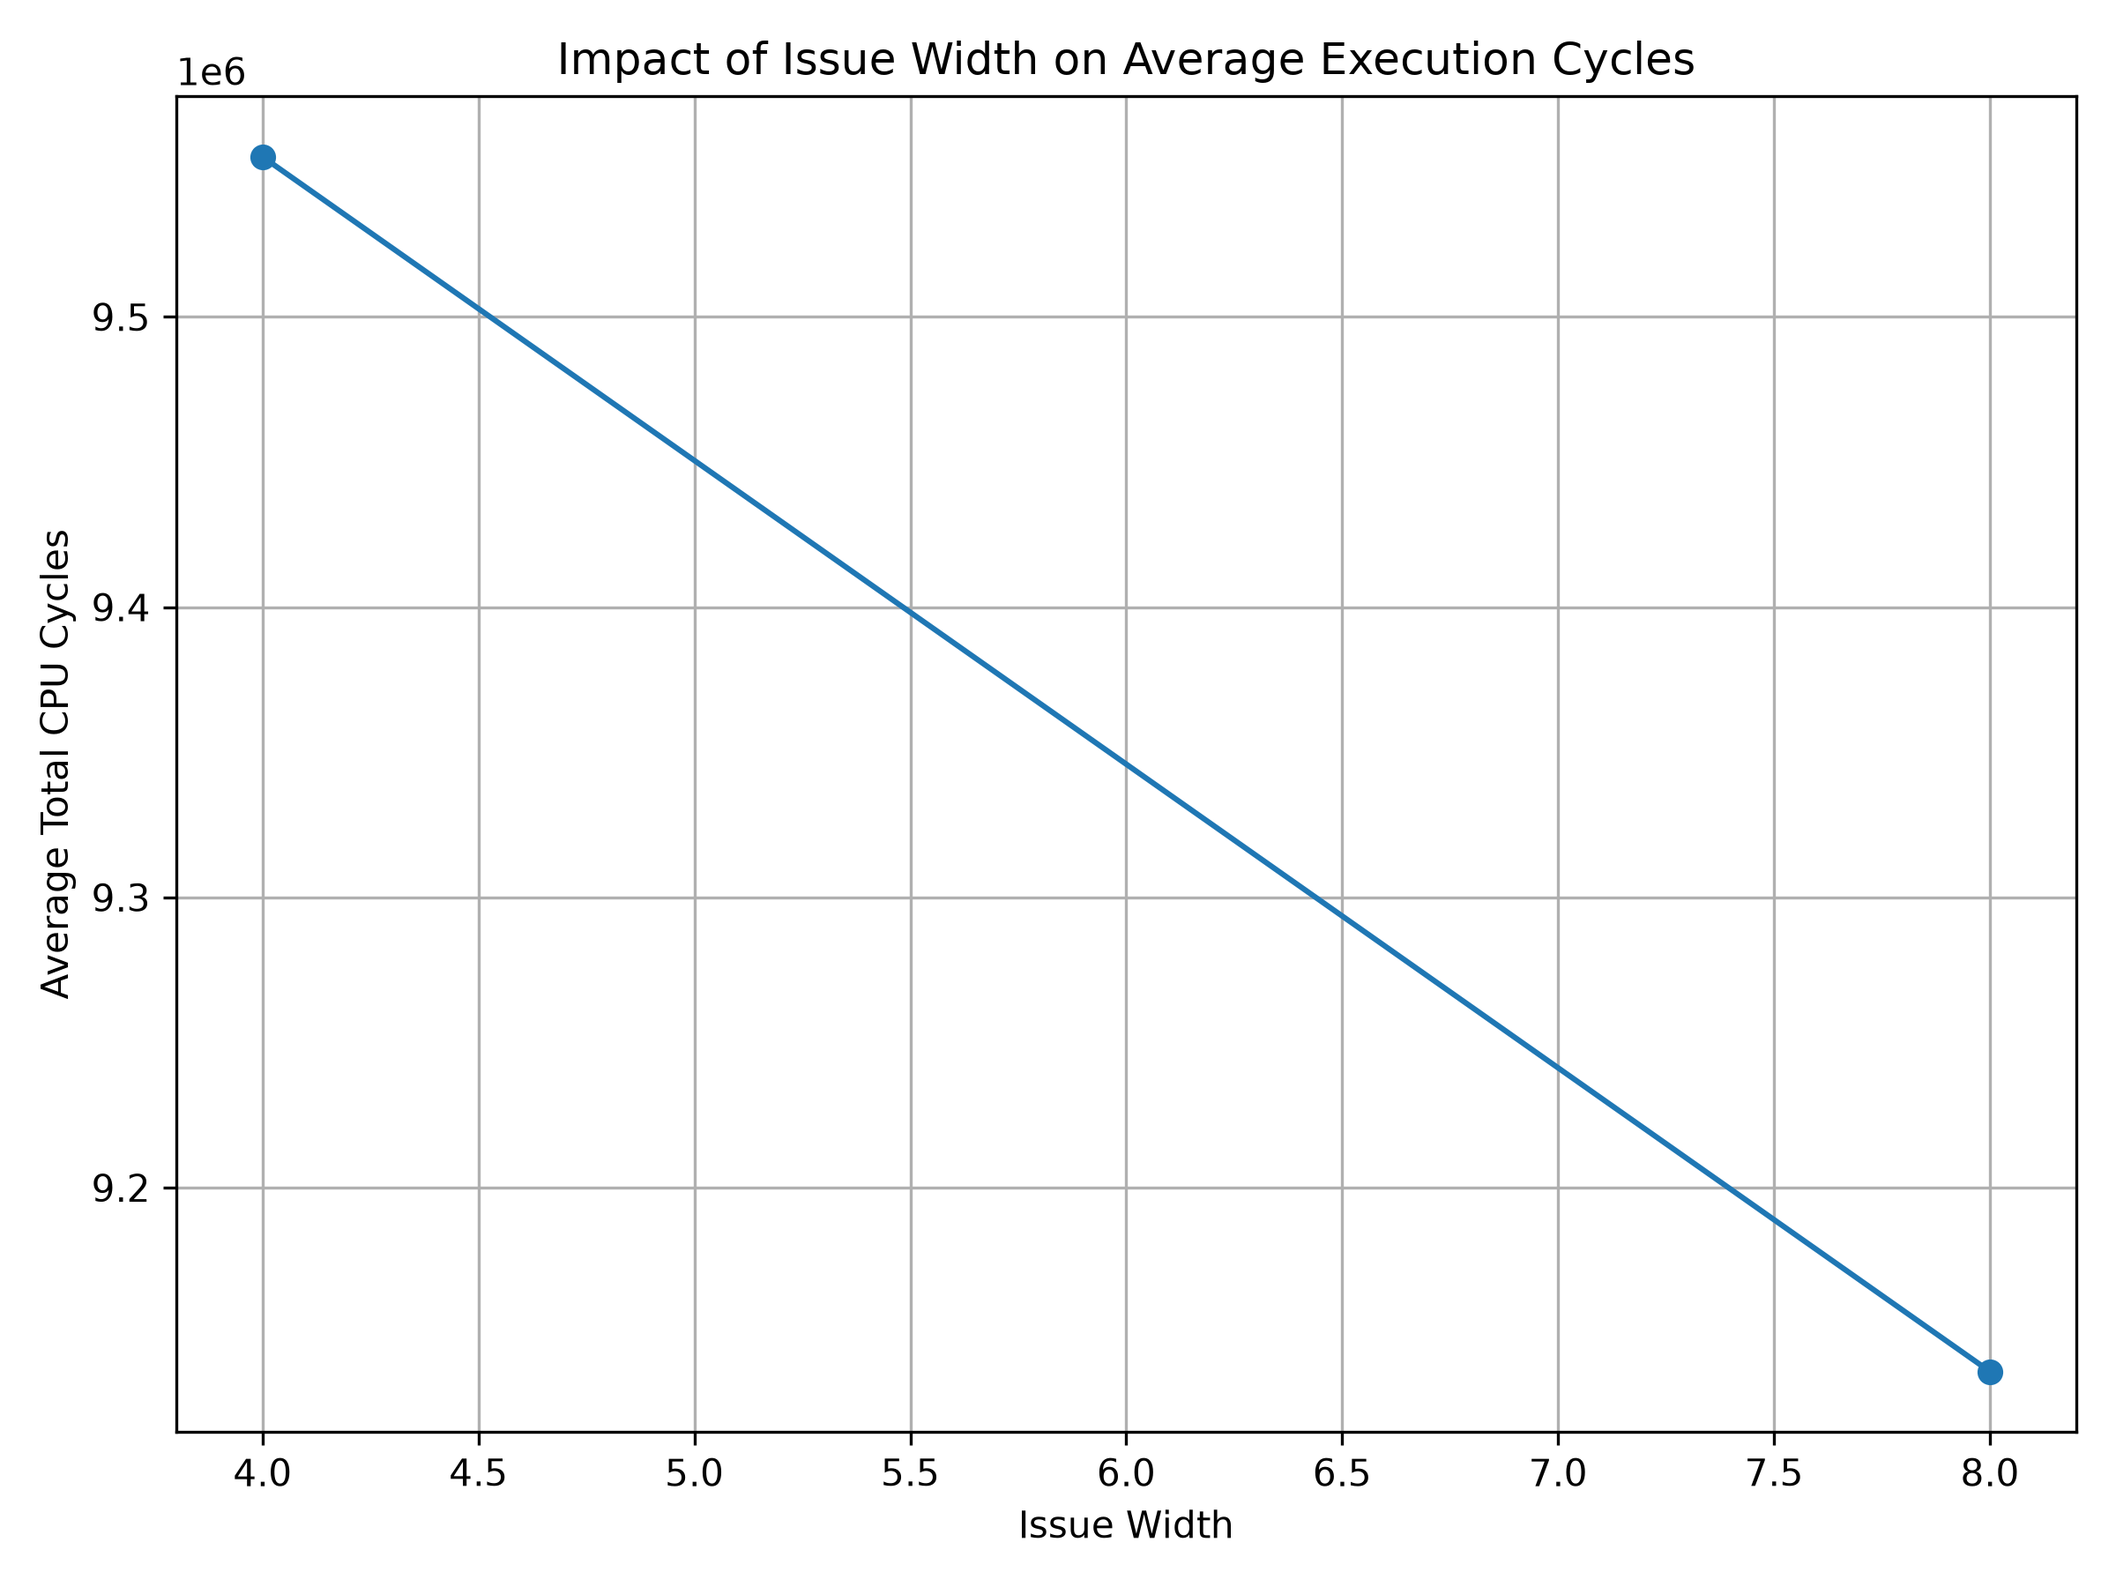
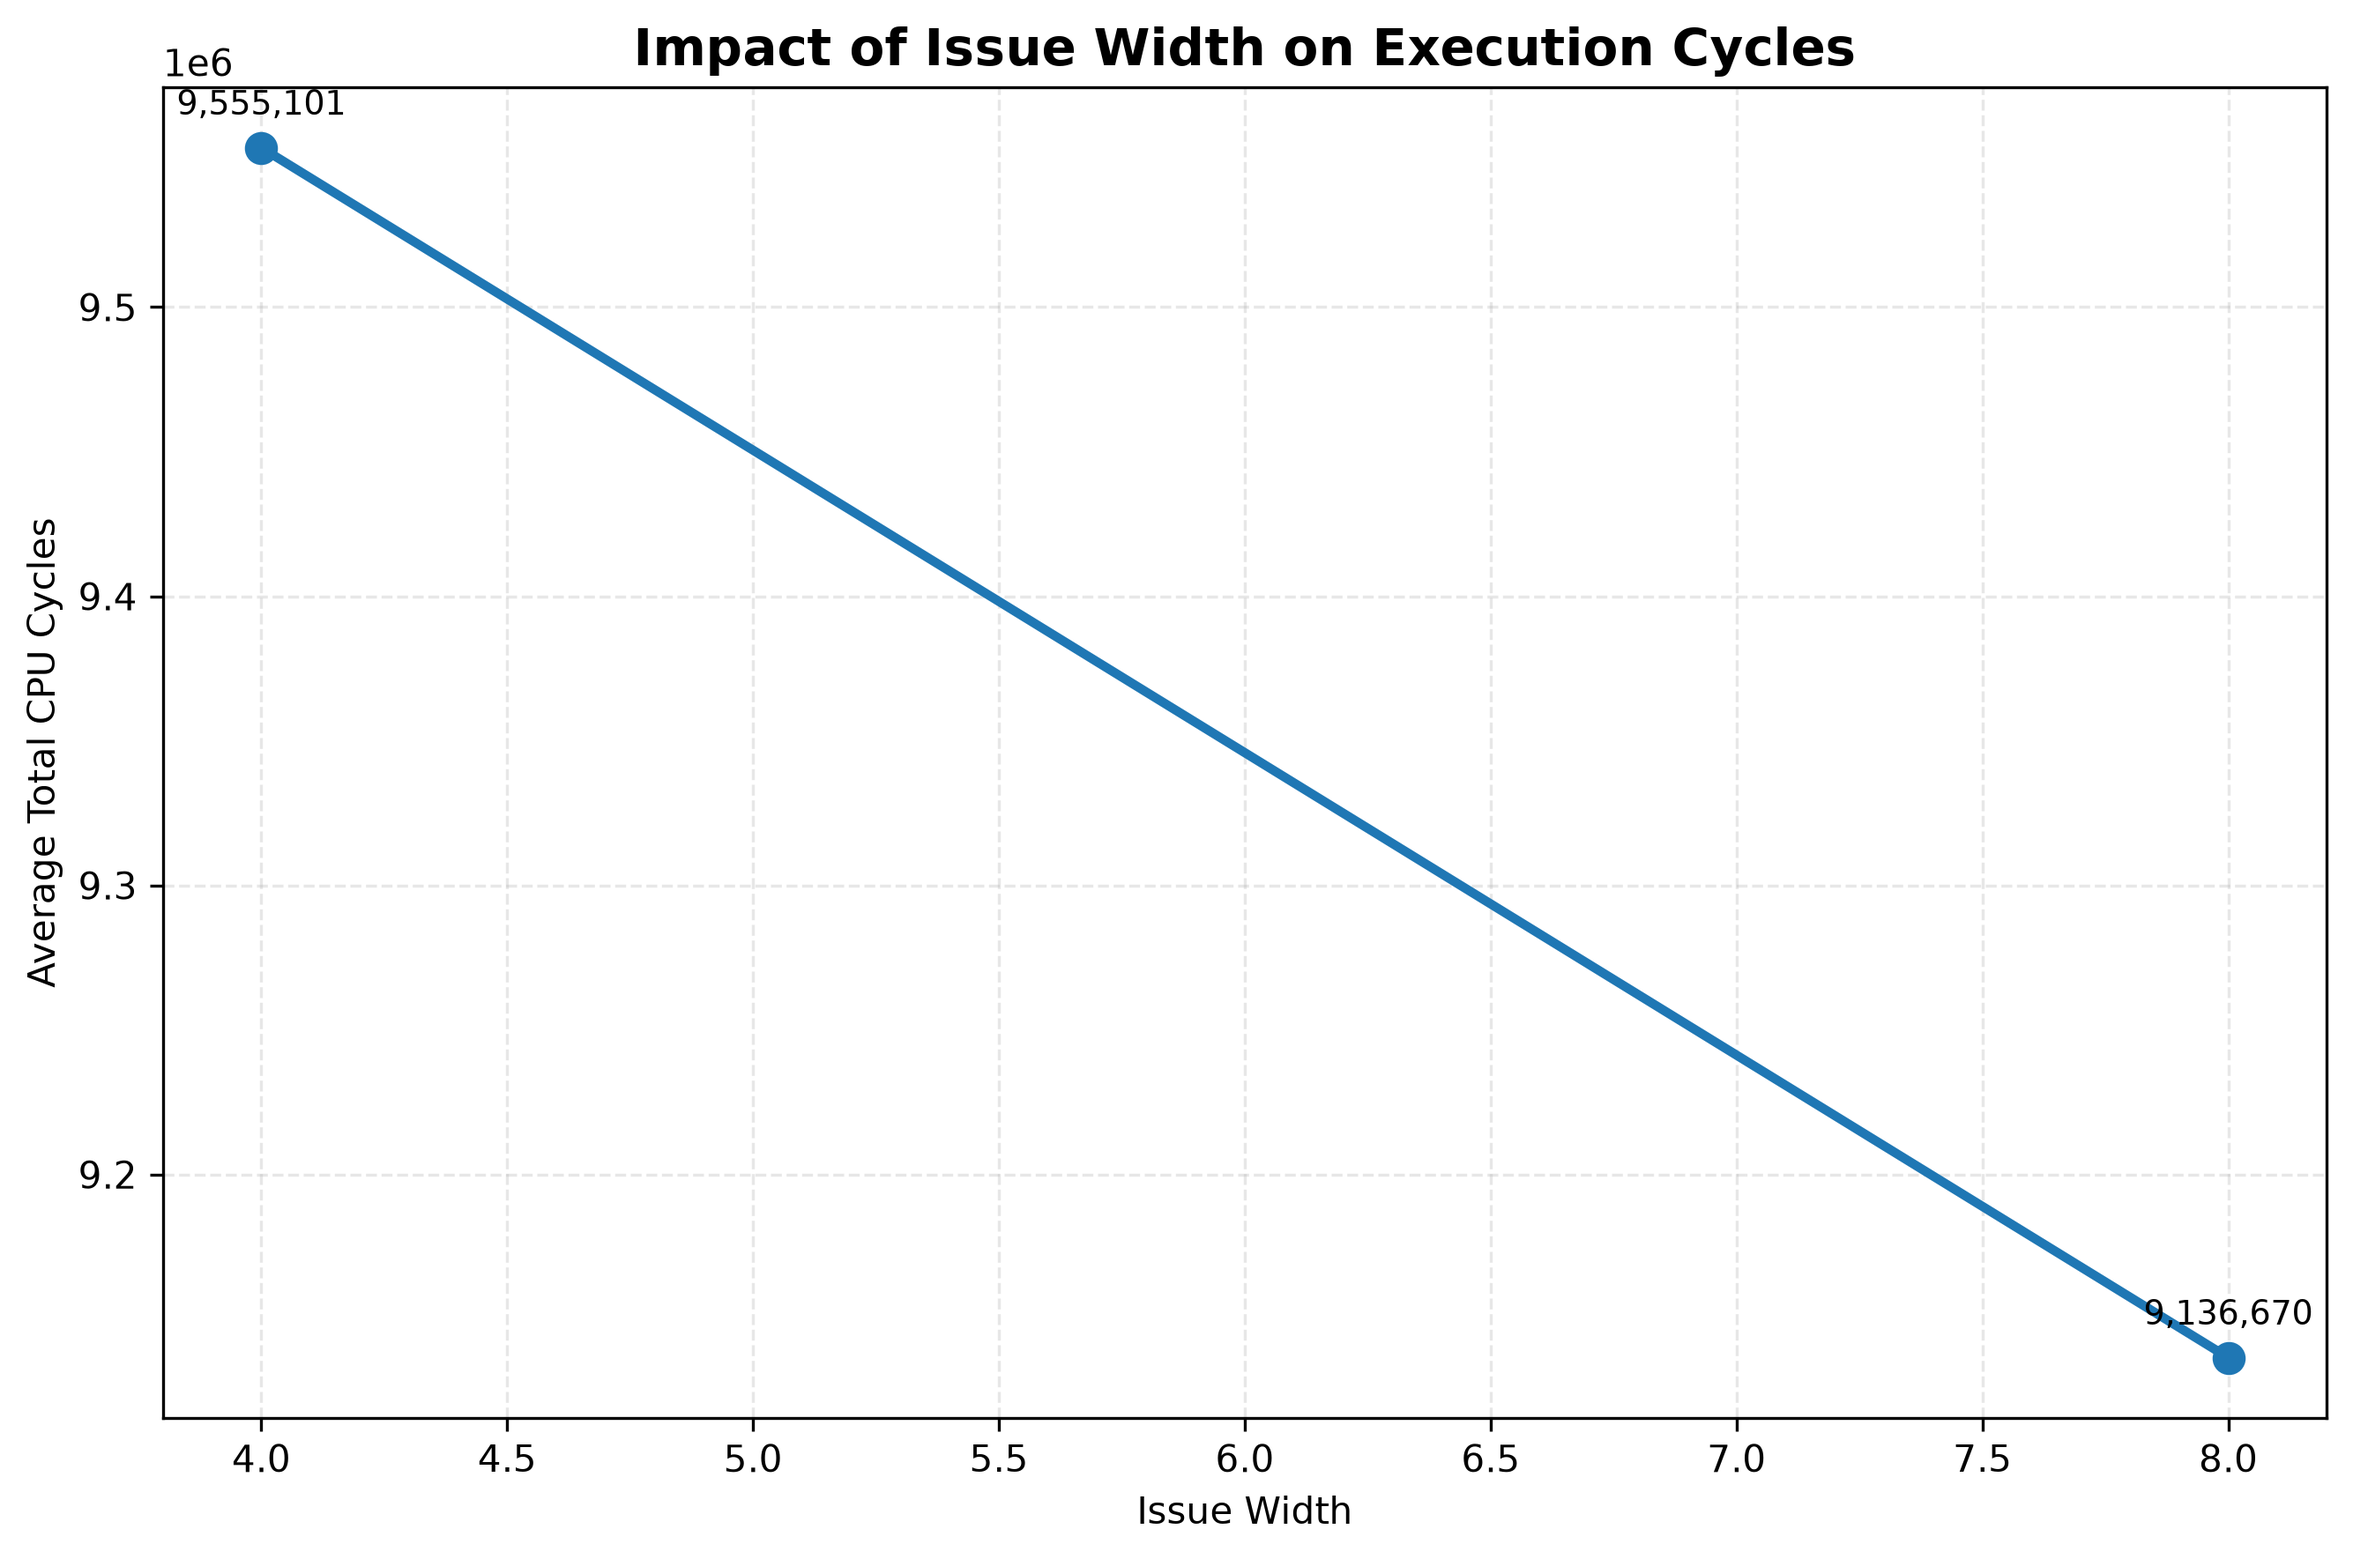
Improve visualization quality of gem5 analysis graphs

diff --git a/automation/analyze_results.py b/automation/analyze_results.py
@@ -279,208 +279,135 @@ def generate_graphs(experiments):
     ]
 
     # --------------------------------------------------------
+
+    # --------------------------------------------------------
+
+    # --------------------------------------------------------
+
+    # --------------------------------------------------------
     # GRAPH 1: EXECUTION CYCLE COMPARISON
     # --------------------------------------------------------
 
-    plt.figure(figsize=(17, 8))
+    plt.figure(figsize=(13, 10))
 
-    plt.bar(range(len(names)), cycles)
+    plt.barh(names[::-1], cycles[::-1])
 
-    plt.xticks(
-        range(len(names)),
-        names,
-        rotation=75,
-        ha="right",
-        fontsize=8
-    )
+    plt.xlabel("Total CPU Cycles")
+    plt.ylabel("Configuration")
+    plt.title("Execution Cycle Comparison Across 24 Configurations",
+              fontsize=15, fontweight="bold")
 
-    plt.ylabel("Total CPU Cycles")
-    plt.xlabel("Configuration")
-
-    plt.title(
-        "Execution Cycle Comparison Across 24 Configurations"
-    )
-
+    plt.grid(axis="x", linestyle="--", alpha=0.3)
     plt.tight_layout()
-
-    plt.savefig(
-        os.path.join(
-            GRAPH_DIR,
-            "execution_time_comparison.png"
-        ),
-        dpi=300
-    )
-
+    plt.savefig(os.path.join(GRAPH_DIR, "execution_time_comparison.png"),
+                dpi=300, bbox_inches="tight")
     plt.close()
 
     # --------------------------------------------------------
     # GRAPH 2: IPC COMPARISON
     # --------------------------------------------------------
 
-    plt.figure(figsize=(17, 8))
+    ipc_sorted = sorted(zip(ipc_values, names), reverse=True)
 
-    plt.bar(range(len(names)), ipc_values)
-
-    plt.xticks(
-        range(len(names)),
-        names,
-        rotation=75,
-        ha="right",
-        fontsize=8
+    plt.figure(figsize=(13, 10))
+    plt.barh(
+        [item[1] for item in ipc_sorted[::-1]],
+        [item[0] for item in ipc_sorted[::-1]]
     )
 
-    plt.ylabel("Instructions Per Cycle (IPC)")
-    plt.xlabel("Configuration")
+    plt.xlabel("Instructions Per Cycle (IPC)")
+    plt.ylabel("Configuration")
+    plt.title("IPC Comparison Across 24 Configurations",
+              fontsize=15, fontweight="bold")
 
-    plt.title(
-        "IPC Comparison Across 24 Configurations"
-    )
-
+    plt.grid(axis="x", linestyle="--", alpha=0.3)
     plt.tight_layout()
-
-    plt.savefig(
-        os.path.join(
-            GRAPH_DIR,
-            "ipc_comparison.png"
-        ),
-        dpi=300
-    )
-
+    plt.savefig(os.path.join(GRAPH_DIR, "ipc_comparison.png"),
+                dpi=300, bbox_inches="tight")
     plt.close()
 
     # --------------------------------------------------------
     # GRAPH 3: ISSUE WIDTH IMPACT
     # --------------------------------------------------------
 
-    issue_averages = calculate_group_averages(
-        experiments,
-        "Issue_Width"
-    )
-
+    issue_averages = calculate_group_averages(experiments, "Issue_Width")
     issue_sizes = sorted(issue_averages.keys())
+    issue_cycles = [issue_averages[size] for size in issue_sizes]
 
-    issue_cycles = [
-        issue_averages[size]
-        for size in issue_sizes
-    ]
+    plt.figure(figsize=(9, 6))
+    plt.plot(issue_sizes, issue_cycles, marker="o", linewidth=2.5,
+             markersize=8)
 
-    plt.figure(figsize=(8, 6))
-
-    plt.plot(
-        issue_sizes,
-        issue_cycles,
-        marker="o"
-    )
+    for x, y in zip(issue_sizes, issue_cycles):
+        plt.annotate(f"{y:,.0f}", (x, y), xytext=(0, 9),
+                     textcoords="offset points", ha="center", fontsize=9)
 
     plt.xlabel("Issue Width")
     plt.ylabel("Average Total CPU Cycles")
-
-    plt.title(
-        "Impact of Issue Width on Average Execution Cycles"
-    )
-
-    plt.grid(True)
+    plt.title("Impact of Issue Width on Execution Cycles",
+              fontsize=14, fontweight="bold")
+    plt.grid(True, linestyle="--", alpha=0.3)
     plt.tight_layout()
-
-    plt.savefig(
-        os.path.join(
-            GRAPH_DIR,
-            "issue_width_impact.png"
-        ),
-        dpi=300
-    )
-
+    plt.savefig(os.path.join(GRAPH_DIR, "issue_width_impact.png"),
+                dpi=300, bbox_inches="tight")
     plt.close()
 
     # --------------------------------------------------------
     # GRAPH 4: ROB SIZE IMPACT
     # --------------------------------------------------------
 
-    rob_averages = calculate_group_averages(
-        experiments,
-        "ROB_Entries"
-    )
-
+    rob_averages = calculate_group_averages(experiments, "ROB_Entries")
     rob_sizes = sorted(rob_averages.keys())
+    rob_cycles = [rob_averages[size] for size in rob_sizes]
 
-    rob_cycles = [
-        rob_averages[size]
-        for size in rob_sizes
-    ]
+    plt.figure(figsize=(9, 6))
+    plt.plot(rob_sizes, rob_cycles, marker="o", linewidth=2.5,
+             markersize=8)
 
-    plt.figure(figsize=(8, 6))
-
-    plt.plot(
-        rob_sizes,
-        rob_cycles,
-        marker="o"
-    )
+    for x, y in zip(rob_sizes, rob_cycles):
+        plt.annotate(f"{y:,.0f}", (x, y), xytext=(0, 9),
+                     textcoords="offset points", ha="center", fontsize=9)
 
     plt.xlabel("Reorder Buffer Size (Entries)")
     plt.ylabel("Average Total CPU Cycles")
-
-    plt.title(
-        "Impact of ROB Size on Average Execution Cycles"
-    )
-
-    plt.grid(True)
+    plt.title("Impact of ROB Size on Execution Cycles",
+              fontsize=14, fontweight="bold")
+    plt.grid(True, linestyle="--", alpha=0.3)
     plt.tight_layout()
-
-    plt.savefig(
-        os.path.join(
-            GRAPH_DIR,
-            "rob_impact.png"
-        ),
-        dpi=300
-    )
-
+    plt.savefig(os.path.join(GRAPH_DIR, "rob_impact.png"),
+                dpi=300, bbox_inches="tight")
     plt.close()
 
     # --------------------------------------------------------
     # GRAPH 5: L2 CACHE SIZE IMPACT
     # --------------------------------------------------------
 
-    l2_averages = calculate_group_averages(
-        experiments,
-        "L2_KB"
-    )
-
+    l2_averages = calculate_group_averages(experiments, "L2_KB")
     l2_sizes = sorted(l2_averages.keys())
+    l2_cycles = [l2_averages[size] for size in l2_sizes]
 
-    l2_cycles = [
-        l2_averages[size]
-        for size in l2_sizes
-    ]
+    plt.figure(figsize=(9, 6))
+    plt.plot(l2_sizes, l2_cycles, marker="o", linewidth=2.5,
+             markersize=8)
 
-    plt.figure(figsize=(8, 6))
-
-    plt.plot(
-        l2_sizes,
-        l2_cycles,
-        marker="o"
-    )
+    for x, y in zip(l2_sizes, l2_cycles):
+        plt.annotate(f"{y:,.0f}", (x, y), xytext=(0, 9),
+                     textcoords="offset points", ha="center", fontsize=9)
 
     plt.xlabel("L2 Cache Size (KB)")
     plt.ylabel("Average Total CPU Cycles")
-
-    plt.title(
-        "Impact of L2 Cache Size on Average Execution Cycles"
-    )
-
-    plt.grid(True)
+    plt.title("Impact of L2 Cache Size on Execution Cycles",
+              fontsize=14, fontweight="bold")
+    plt.grid(True, linestyle="--", alpha=0.3)
     plt.tight_layout()
-
-    plt.savefig(
-        os.path.join(
-            GRAPH_DIR,
-            "l2_cache_impact.png"
-        ),
-        dpi=300
-    )
-
+    plt.savefig(os.path.join(GRAPH_DIR, "l2_cache_impact.png"),
+                dpi=300, bbox_inches="tight")
     plt.close()
 
     print("Five graphs generated successfully.")
+
+
+
 
 
 # ============================================================

diff --git a/automation/analyze_interactions.py b/automation/analyze_interactions.py
@@ -186,7 +186,7 @@ def generate_graph(
         row["Series_Value"] for row in results
     })
 
-    plt.figure(figsize=(9, 6))
+    plt.figure(figsize=(11, 7))
 
     for series_value in series_values:
 
@@ -213,21 +213,33 @@ def generate_graph(
             x_values,
             y_values,
             marker="o",
-            linewidth=2,
+            markersize=9,
+            linewidth=2.5,
             label=f"{series_parameter} = {series_value}"
         )
 
-    plt.xlabel(x_parameter.replace("_", " "))
-    plt.ylabel("Average Total CPU Cycles")
-    plt.title(title)
+    ax = plt.gca()
+    ax.yaxis.set_major_formatter(
+        plt.FuncFormatter(lambda y, _: f"{y / 1_000_000:.1f}M")
+    )
 
-    plt.legend()
-    plt.grid(True, alpha=0.3)
+    plt.xlabel(x_parameter.replace("_", " "), fontsize=11)
+    plt.ylabel("Average Total CPU Cycles (Millions)", fontsize=11)
+    plt.title(title, fontsize=15, fontweight="bold", pad=15)
+
+    plt.legend(
+        title=series_parameter.replace("_", " "),
+        loc="best",
+        frameon=True
+    )
+
+    plt.grid(True, linestyle="--", alpha=0.3)
     plt.tight_layout()
 
     plt.savefig(
         os.path.join(GRAPH_DIR, filename),
-        dpi=300
+        dpi=300,
+        bbox_inches="tight"
     )
 
     plt.close()

diff --git a/automation/statistical_analysis.py b/automation/statistical_analysis.py
@@ -335,23 +335,40 @@ values = [
 
 order = np.argsort(values)
 
-plt.figure(figsize=(12, 7))
+plt.figure(figsize=(13, 8))
 
-plt.barh(
+bars = plt.barh(
     [labels[i] for i in order],
     [values[i] for i in order]
 )
 
+ax = plt.gca()
+
+for bar, value in zip(bars, [values[i] for i in order]):
+    ax.text(
+        bar.get_width() + 0.3,
+        bar.get_y() + bar.get_height() / 2,
+        f"{value:.3f}%",
+        va="center",
+        fontsize=9
+    )
+
 plt.xlabel(
-    "Contribution to Total Cycle Variation (%)"
+    "Contribution to Total Cycle Variation (%)",
+    fontsize=11
 )
 
-plt.ylabel("Factorial Effect")
+plt.ylabel("Factorial Effect", fontsize=11)
 
 plt.title(
-    "Microarchitectural Factorial Effect Contributions"
+    "Microarchitectural Factorial Effect Contributions",
+    fontsize=15,
+    fontweight="bold",
+    pad=15
 )
 
+plt.grid(axis="x", linestyle="--", alpha=0.3)
+plt.xlim(0, max(values) * 1.12)
 plt.tight_layout()
 
 plt.savefig(
